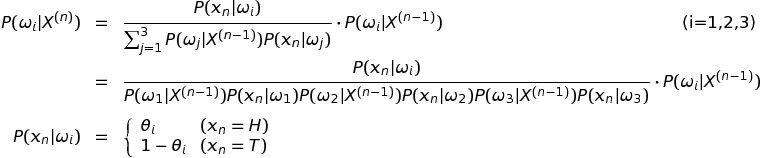
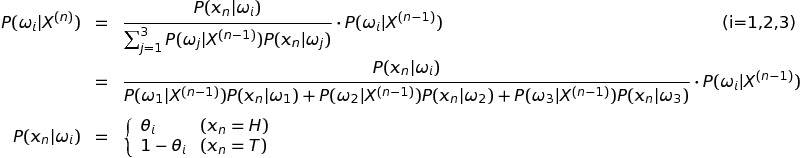
分母の+忘れを修正

diff --git a/formula.tex b/formula.tex
@@ -4,7 +4,7 @@
 
 \begin{eqnarray*}
 	P(\omega_{i} | X^{(n)}) &=& \frac{P(x_{n}|\omega_{i})}{\sum_{j=1}^{3}P(\omega_{j}|X^{(n-1)})P(x_{n}|\omega_{j})}\cdot P(\omega_{i}|X^{(n-1)}) & (i=1,2,3) \\
-													&=& \frac{P(x_{n}|\omega_{i})}{P(\omega_{1}|X^{(n-1)})P(x_{n}|\omega_{1})P(\omega_{2}|X^{(n-1)})P(x_{n}|\omega_{2})P(\omega_{3}|X^{(n-1)})P(x_{n}|\omega_{3}) }\cdot P(\omega_{i}|X^{(n-1)}) \\ \\
+													&=& \frac{P(x_{n}|\omega_{i})}{P(\omega_{1}|X^{(n-1)})P(x_{n}|\omega_{1})+P(\omega_{2}|X^{(n-1)})P(x_{n}|\omega_{2})+P(\omega_{3}|X^{(n-1)})P(x_{n}|\omega_{3}) }\cdot P(\omega_{i}|X^{(n-1)}) \\ \\
 	P(x_{n}|\omega_{i}) &=& \left\{
 		\begin{array}{ll}
 			\theta_{i} & (x_{n} = H) \\
